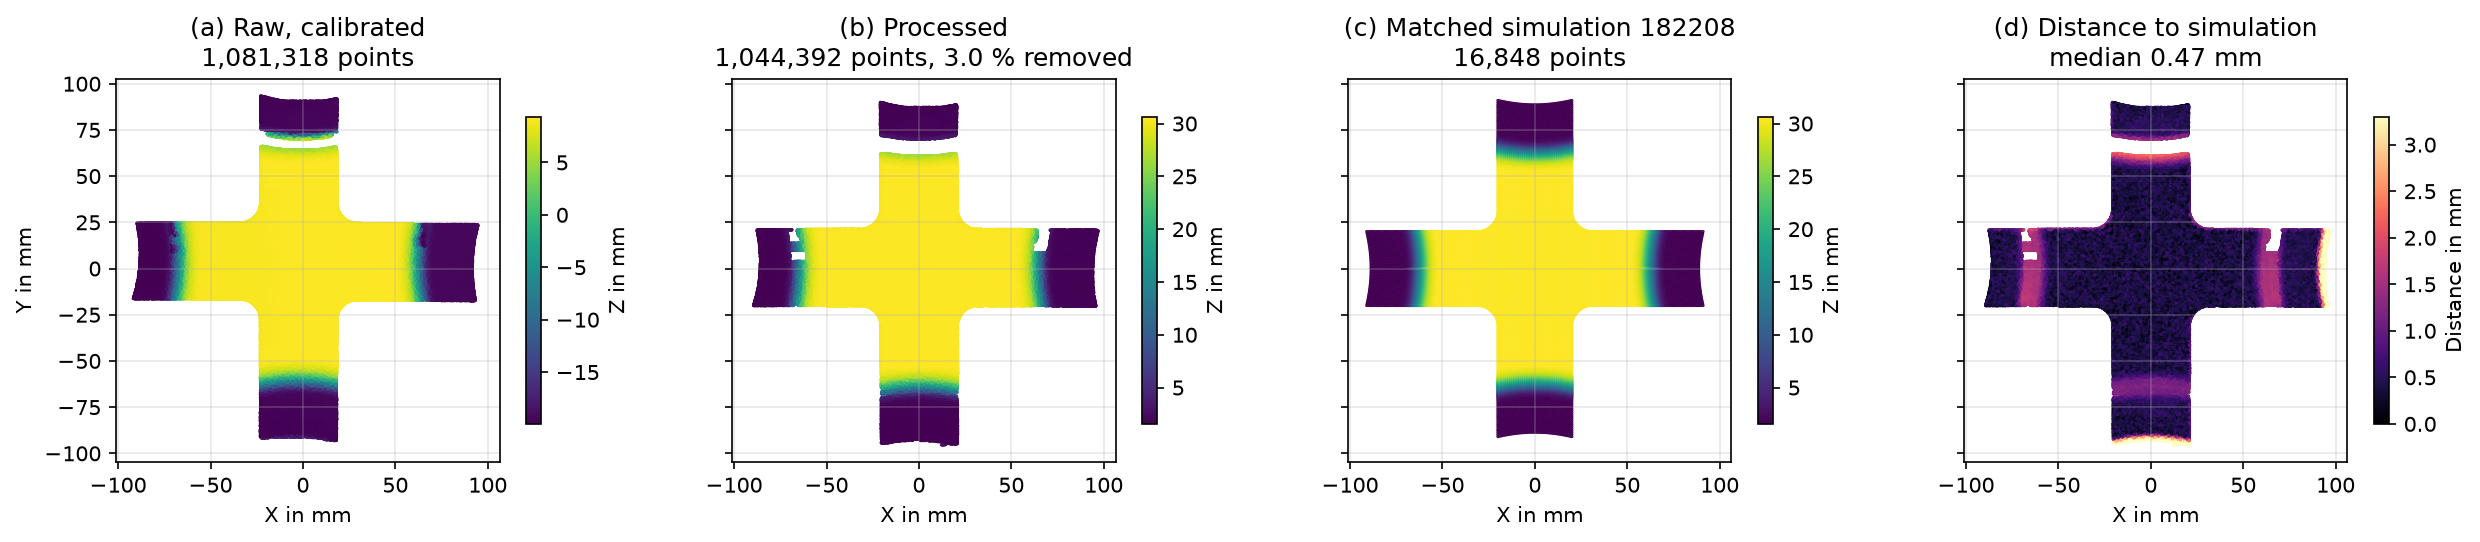
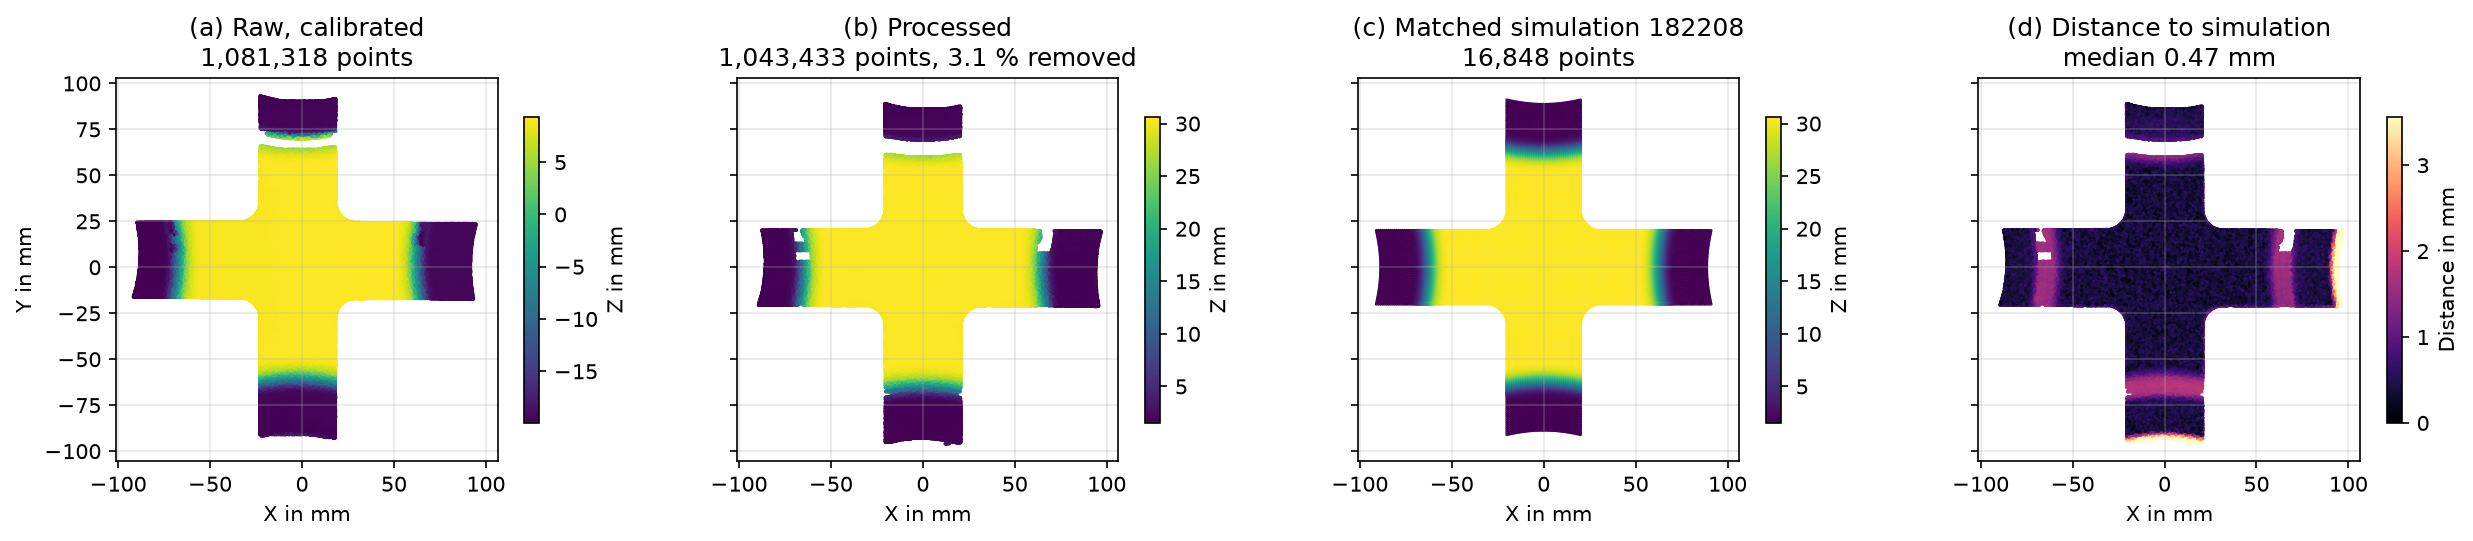
Adjust the pointcloud final alignment in order to pay attention to false balance after fin removal (which is not part of the pure ICP yet.

diff --git a/rddac/_preprocess/pointcloud/geometry.py b/rddac/_preprocess/pointcloud/geometry.py
@@ -227,6 +227,41 @@ def z_at_center(points: np.ndarray, radius: float = 5.0) -> float:
     return float(np.median(points[mask, 2]))
 
 
+def _voxel_pool(points: np.ndarray, voxel_mm: float = 0.35) -> np.ndarray:
+    """One representative point per voxel, so dense regions do not outweigh sparse ones."""
+    vox = np.round(points / voxel_mm).astype(np.int64)
+    _, keep = np.unique(vox, axis=0, return_index=True)
+    return points[np.sort(keep)]
+
+
+def _distance_stats(distances: np.ndarray) -> dict:
+    """Robust summary statistics of nearest-neighbour distances (icp_* attrs)."""
+    q1, q2, q3 = (float(np.percentile(distances, p)) for p in (25, 50, 75))
+    iqr = q3 - q1
+    return {
+        "icp_mean_distance": float(np.mean(distances)),
+        "icp_std_distance": float(np.std(distances)),
+        "icp_median_distance": q2,
+        "icp_q1_distance": q1,
+        "icp_q3_distance": q3,
+        "icp_whisker_low": float(max(np.min(distances), q1 - 1.5 * iqr)),
+        "icp_whisker_high": float(min(np.max(distances), q3 + 1.5 * iqr)),
+    }
+
+
+def _deck_center(points: np.ndarray, z_lo: float) -> np.ndarray | None:
+    """Outline midpoint (x, y) of the deck: all points above ``z_lo``.
+
+    The midpoint of the robust per-axis extents depends only on the deck
+    boundary, not on the scan's anisotropic interior point density.
+    """
+    deck = points[points[:, 2] > z_lo]
+    if len(deck) < 100:
+        return None
+    lo, hi = np.percentile(deck[:, :2], [0.5, 99.5], axis=0)
+    return (lo + hi) / 2.0
+
+
 def run_icp(
     source: np.ndarray,
     target: np.ndarray,
@@ -251,7 +286,11 @@ def run_icp(
         robust summary statistics of the final nearest-neighbour distances.
     """
     rng = np.random.RandomState(seed)
-    src = source[rng.choice(len(source), n_sample, replace=False)].copy() if len(source) > n_sample else source.copy()
+    # Density-neutral subsample: one representative per 0.35 mm voxel first, so
+    # densely scanned directions (x pitch 0.077 vs y pitch 0.158 mm) and lightly
+    # cleaned regions do not outweigh sparse ones in the fit.
+    pool = _voxel_pool(source)
+    src = pool[rng.choice(len(pool), n_sample, replace=False)].copy() if len(pool) > n_sample else pool.copy()
 
     r_total = np.eye(3)
     t_total = np.zeros(3)
@@ -274,18 +313,7 @@ def run_icp(
         t_total = r @ t_total + t
 
     final_distances, _ = KDTree(target).query(src)
-    q1, q2, q3 = (float(np.percentile(final_distances, p)) for p in (25, 50, 75))
-    iqr = q3 - q1
-    stats = {
-        "icp_mean_distance": float(np.mean(final_distances)),
-        "icp_std_distance": float(np.std(final_distances)),
-        "icp_median_distance": q2,
-        "icp_q1_distance": q1,
-        "icp_q3_distance": q3,
-        "icp_whisker_low": float(max(np.min(final_distances), q1 - 1.5 * iqr)),
-        "icp_whisker_high": float(min(np.max(final_distances), q3 + 1.5 * iqr)),
-    }
-    return r_total, t_total, stats
+    return r_total, t_total, _distance_stats(final_distances)
 
 
 def align_to_simulation(
@@ -300,14 +328,17 @@ def align_to_simulation(
 ) -> tuple[np.ndarray, np.ndarray, np.ndarray, dict]:
     """Rigidly align a scan to its simulation, anchored on the cup.
 
-    Two ICP passes. The first uses all inlier points and brings the scan into
-    the simulation frame; it is robust while fins are still present. The
-    second is restricted to the cup (bottom and walls): every point higher
-    than the simulation's flange level plus ``anchor_height_mm``, selected
-    identically on both sides. This keeps the flange, the region most
-    affected by springback and draw-in, from biasing the pose, so the
-    remaining wall and radius deviations are attributed to the part, not to
-    the alignment. After each pass the z offset is fixed at the cup centre.
+    Two ICP passes plus a deck centering. The first pass uses all inlier
+    points and brings the scan into the simulation frame; it is robust while
+    fins are still present. The second is restricted to the cup (bottom and
+    walls): every point higher than the simulation's flange level plus
+    ``anchor_height_mm``, selected identically on both sides. This keeps the
+    flange, the region most affected by springback and draw-in, from biasing
+    the pose, so the remaining wall and radius deviations are attributed to
+    the part, not to the alignment. Because the ICP cost is nearly flat in
+    x/y for these level-topped parts, a final x/y shift matches the occupancy
+    centroids of the two decks, distributing any real width difference
+    symmetrically. After each step the z offset is fixed at the cup centre.
 
     Args:
         points: ``(N, 3)`` calibrated scan points.
@@ -344,12 +375,35 @@ def align_to_simulation(
         stats = {"n_anchor_points": int(cup.sum())}
         return aligned, rotation, translation, stats
 
-    rotation_2, translation_2, stats = run_icp(aligned[cup], sim_cup, max_iterations, n_sample, seed)
+    rotation_2, translation_2, _ = run_icp(aligned[cup], sim_cup, max_iterations, n_sample, seed)
     aligned = aligned @ rotation_2.T + translation_2
     z_offset_2 = z_at_center(aligned[inlier]) - z_at_center(sim_pts)
     aligned[:, 2] -= z_offset_2
 
+    # The point-to-point cost is nearly flat in x/y (deck and flange are level
+    # planes), so the ICP pose inside that valley is ambiguous and tends to
+    # pile the real scan-vs-simulation width difference onto one side. Anchor
+    # x/y symmetrically instead: match the occupancy centroids of both decks.
+    deck_z = float(sim_pts[:, 2].max()) - 2.0
+    center_scan = _deck_center(aligned[inlier], deck_z)
+    center_sim = _deck_center(sim_pts, deck_z)
+    deck_shift = np.zeros(2) if center_scan is None or center_sim is None else center_sim - center_scan
+    aligned[:, :2] += deck_shift
+    z_offset_3 = z_at_center(aligned[inlier]) - z_at_center(sim_pts)
+    aligned[:, 2] -= z_offset_3
+
     rotation = rotation_2 @ rotation_1
-    translation = rotation_2 @ (translation_1 - z_offset_1 * z_axis) + translation_2 - z_offset_2 * z_axis
-    stats = dict(stats, n_anchor_points=int(cup.sum()))
+    translation = (
+        rotation_2 @ (translation_1 - z_offset_1 * z_axis)
+        + translation_2
+        - z_offset_2 * z_axis
+        + np.append(deck_shift, -z_offset_3)
+    )
+    distances, _ = KDTree(sim_cup).query(_voxel_pool(aligned[cup]))
+    stats = dict(
+        _distance_stats(distances),
+        n_anchor_points=int(cup.sum()),
+        deck_shift_x=float(deck_shift[0]),
+        deck_shift_y=float(deck_shift[1]),
+    )
     return aligned, rotation, translation, stats

diff --git a/docs/preprocessing/pointcloud.md b/docs/preprocessing/pointcloud.md
@@ -3,7 +3,13 @@
 The `pointcloud` stage turns the raw laser-scan grids (`pointcloud/{op10,op20}/z` + `luminescence`) into cleaned, simulation-aligned point clouds: `z` becomes `(N, 3) float32` (Open3D-ready) and `luminescence` a `(2000, 3200) uint8` grayscale image (Pillow-ready). It is the only stage that needs the optional dependencies (`pip install 'rddac[preprocessing]'`) and the DDACS simulations.
 
 !!! warning "Needs the DDACS simulations"
-    Every scan is aligned to its best-matching DDACS simulation, so the stage requires the simulations fetched by `rddac download` (without `--no-sim`). Without them the command exits with an actionable error before touching any file.
+    Every scan is aligned to its best-matching DDACS simulation, so the stage requires the simulations fetched by `rddac download` (without `--no-sim`). Without them the command exits with an actionable error before touching any file. If you only miss the simulations, fetch just those:
+
+    ```bash
+    ddacs download --files rddac.zip --out ./data/simulation
+    ```
+
+    (`./data` = your `--data-dir`; the stage looks for `simulation/rddac.zip` inside it.)
 
 | Property | Raw | Processed |
 | --- | --- | --- |
@@ -17,13 +23,8 @@ Raw scans carry measurement artifacts, most prominently **fins**: locally smooth
 
 ## Processing steps
 
-1. **Validity mask**: connected-component filtering of the luminescence grid plus `z > 0`.
-
-    <img src="../../images/preprocessing/luminescence_processing_concave_op10.png" width="900">
-
-    *Luminescence of one OP10 scan: raw grid (a), connected foreground patches (b), the validity mask after the patch-size filter (c), and the packed `uint8` image written to the processed file (d).*
-
-2. **Calibration**: x from the sensor specification, z from the calibration-block measurement (both packaged in `calibration.json`), y per scan from the square-part assumption.
+1. **Validity mask**: connected-component filtering of the luminescence grid plus `z > 0`; the one step shared with the [luminescence image](#the-luminescence-image-an-independent-output) below.
+2. **Calibration**: all three scales from the packaged `calibration.json`: x from the sensor specification, z from the calibration-block measurement, y the constant line spacing of the measurement configuration (see [Calibration constants](#calibration-constants)).
 3. **Geometric outlier seeds**: three complementary detectors, then morphological closing on a kNN graph:
     - *surface angle*: local SVD plane fits; a point is seeded when its normal deviates more than the cutoff from vertical,
 
@@ -43,6 +44,35 @@ Raw scans carry measurement artifacts, most prominently **fins**: locally smooth
 <img src="../../images/preprocessing/pointcloud_processing_convex_op20.png" width="900">
 
 *Experiments 0 (concave) and 4500 (convex), both part of the small bundle and processed with the simulations present, in top view, OP10 (deep drawing) and OP20 (cutting) each: (a) the raw calibrated scan after the validity mask, (b) the processed, ICP-aligned point cloud (gaps are the removed fins and outliers), (c) the matched DDACS simulation in the same frame, and (d) the processed points coloured by their nearest-neighbour distance to the simulation, the same `kd` sim-distance feature the fin classifier uses.*
+
+??? example "These figures were created with"
+
+    ```bash
+    python -m rddac._preprocess.visualize pointcloud \
+        --data-dir /path/to/rddac --id 0 --op op10 --out docs/images/preprocessing
+    # analogously --id 0 --op op20, and --id 4500 for the convex figures
+    ```
+
+    The `plot_pointcloud_processing` function takes the raw arrays and derives the
+    processed view through the stage's own `process` function, so the figure is by
+    construction what `rddac preprocess pointcloud` produces (see the
+    [preprocessing tutorial](../tutorials/preprocessing.md)).
+
+
+## The luminescence image: an independent output
+
+Although the same `rddac preprocess pointcloud` command produces both outputs, the
+luminescence path is its **own, independent processing**: the raw luminescence grid is
+segmented into connected foreground patches, filtered by patch size into the validity
+mask (the only artifact shared with the point-cloud path), and packed into a
+`(2000, 3200) uint8` grayscale image: 0 reserved for background, valid pixels
+normalized to 1–255, ready for Pillow / image models. None of the later point-cloud
+steps touch it: outlier seeds, the fin classifier and the ICP alignment act only on
+the 3D points, so the luminescence image keeps the full scanner grid.
+
+<img src="../../images/preprocessing/luminescence_processing_concave_op10.png" width="900">
+
+*Luminescence of one OP10 scan: raw grid (a), connected foreground patches (b), the validity mask after the patch-size filter (c), and the packed `uint8` image written to the processed file (d).*
 
 ## Calibration constants
 

diff --git a/CHANGELOG.md b/CHANGELOG.md
@@ -5,6 +5,37 @@ All notable changes to the `rddac` package are documented here. The format follo
 `bumpver` tags. The dataset itself is versioned on DaRUS (doi:10.18419/DARUS-5589)
 independently of the package.
 
+## [Unreleased]
+
+### Changed
+- Default dataset version is now **2.0** (DaRUS doi:10.18419/DARUS-5589).
+  Dataset 2.0 corrects the assignment of the convex force measurements
+  (ids 4500-8999): in 1.0 the `force/data` group and the derived
+  `mean_punch_temp` of these experiments were attached to the wrong ids;
+  sheet thickness, oil film, point clouds and all labels were and are correct.
+  `process_parameters.csv` changes in the `mean_punch_temp` column only.
+- The software itself is unchanged and **backwards compatible**: both dataset
+  versions share the same layout, every view and the preprocessing work on
+  either, and `rddac download 1.0` still fetches the previous version.
+- After switching a local copy to dataset 2.0, refresh the force-derived
+  processed layer with `rddac preprocess force --overwrite`; the other
+  modalities are unaffected.
+
+## [1.1.2] - 2026-09-03
+
+### Changed
+- Pointcloud ICP now draws its sample from a density-neutral 0.35 mm voxel
+  grid. The scanner grid is twice as dense in x as in y and the fin cleaner
+  thins one wall, which let dense regions dominate the fit and overstate the
+  deviation of sparse walls (~0.1 mm pose bias, clearly visible on convex
+  OP20). Reprocess point clouds with `rddac preprocess pointcloud --overwrite`.
+- Pointcloud alignment gained a third step after the cup-anchored ICP: the scan
+  is centered in x/y on the deck outline of the simulation. The ICP cost is
+  nearly flat in x/y for these level-topped parts, so the pose inside that
+  valley was ambiguous and piled the real scan-vs-simulation width difference
+  onto one side. The applied shift is stored in the new `deck_shift_x` and
+  `deck_shift_y` attributes.
+
 ## [1.1.1] - 2026-09-01
 
 ### Changed
@@ -63,7 +94,8 @@ independently of the package.
   PyTorch `RDDACDataset`, plotting helpers, documentation and six tutorial
   notebooks.
 
-[Unreleased]: https://github.com/BaumSebastian/RDDAC/compare/1.1.1...HEAD
+[Unreleased]: https://github.com/BaumSebastian/RDDAC/compare/1.1.2...HEAD
+[1.1.2]: https://github.com/BaumSebastian/RDDAC/compare/1.1.1...1.1.2
 [1.1.1]: https://github.com/BaumSebastian/RDDAC/compare/1.1.0...1.1.1
 [1.1.0]: https://github.com/BaumSebastian/RDDAC/compare/1.0.1...1.1.0
 [1.0.1]: https://github.com/BaumSebastian/RDDAC/compare/1.0.0...1.0.1
